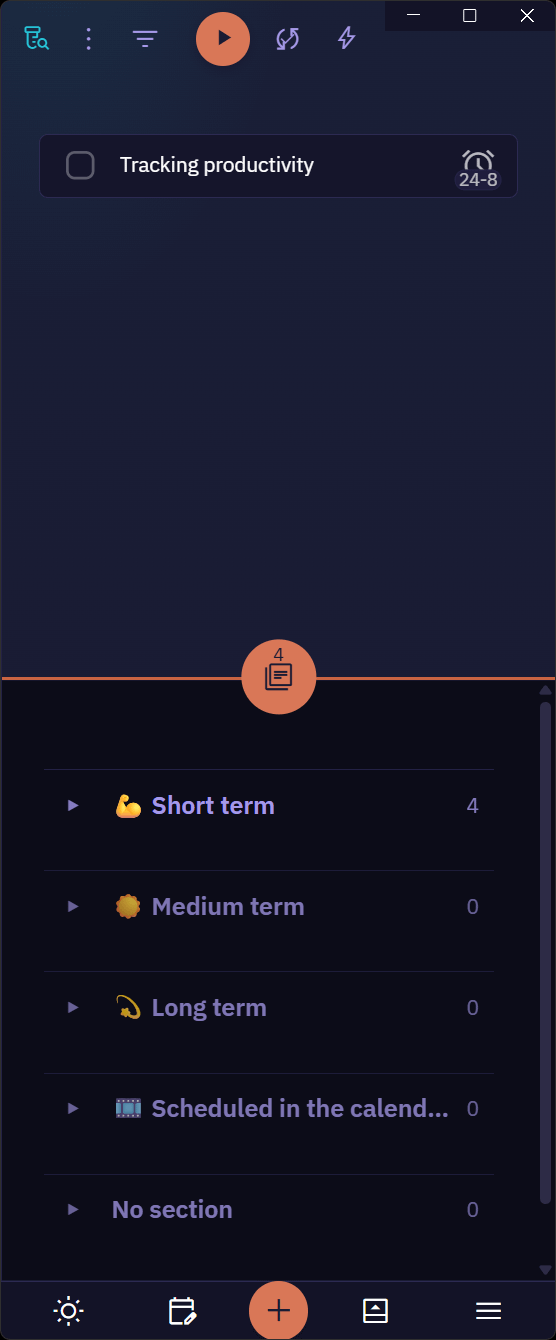
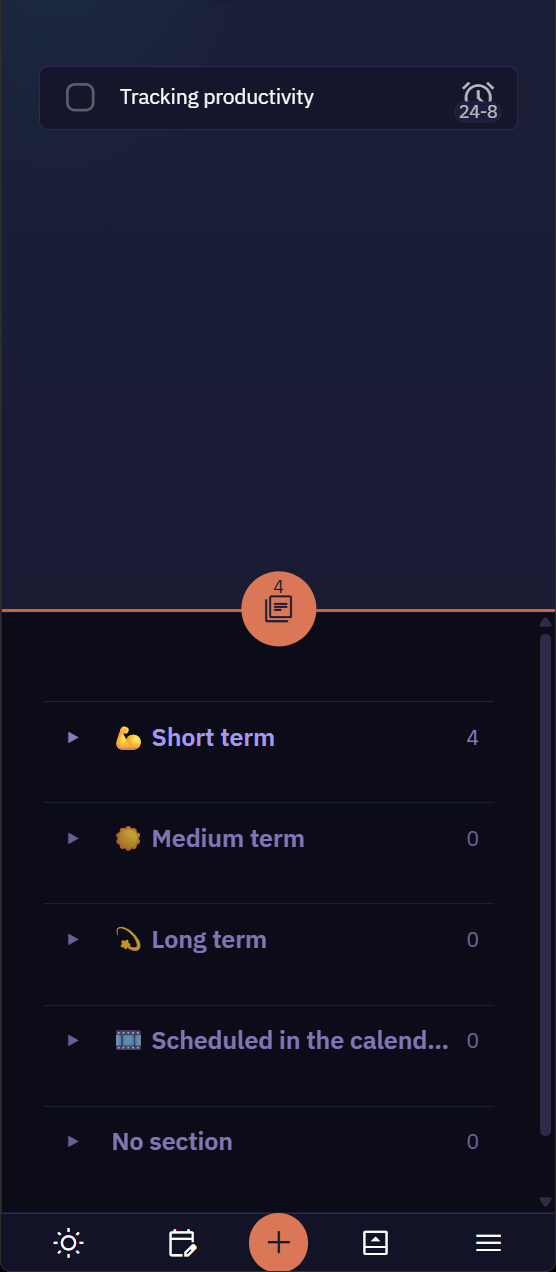
Crop the window toolbar off the backlog screenshot

diff --git a/README.md b/README.md
@@ -4,7 +4,7 @@ Backlog Sections adds named sections to the backlog of each project in [Super Pr
 
 <img src="docs/overview.png" alt="A project in Super Productivity: the task list above the divider, and below it the backlog with headers for Short term, Medium term, Long term, Scheduled in the calendar and No section, each showing its task count" width="720" height="675">
 
-<img src="docs/backlog.png" alt="A project backlog showing the four standard sections — Short term, Medium term, Long term and Scheduled in the calendar — plus No section, each collapsed and showing its task count" width="280" height="675">
+<img src="docs/backlog.png" alt="A project backlog showing the four standard sections — Short term, Medium term, Long term and Scheduled in the calendar — plus No section, each collapsed and showing its task count" width="295" height="675">
 
 ## Why
 A project backlog is one flat list. As it grows, tasks pile up without much structure, making it harder to see what deserves attention, what can wait, and what belongs together.
